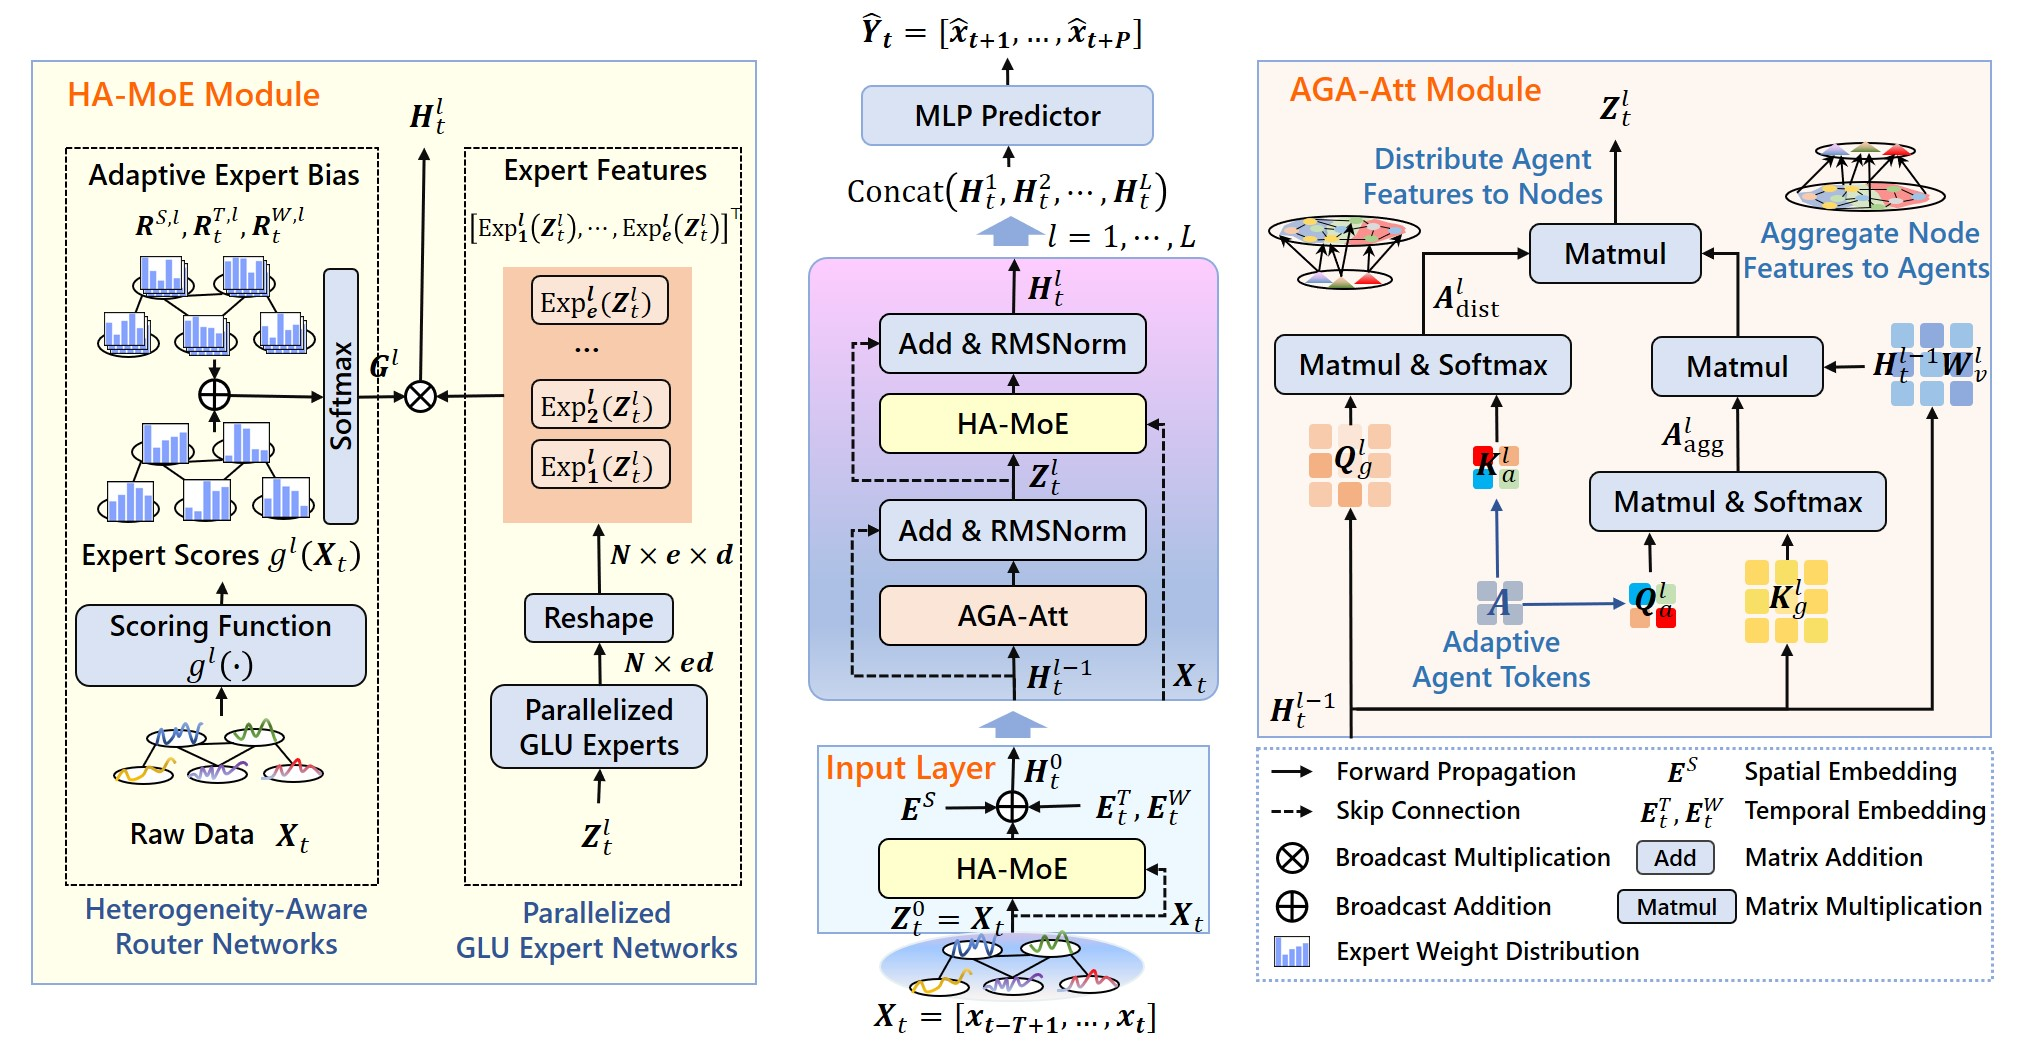
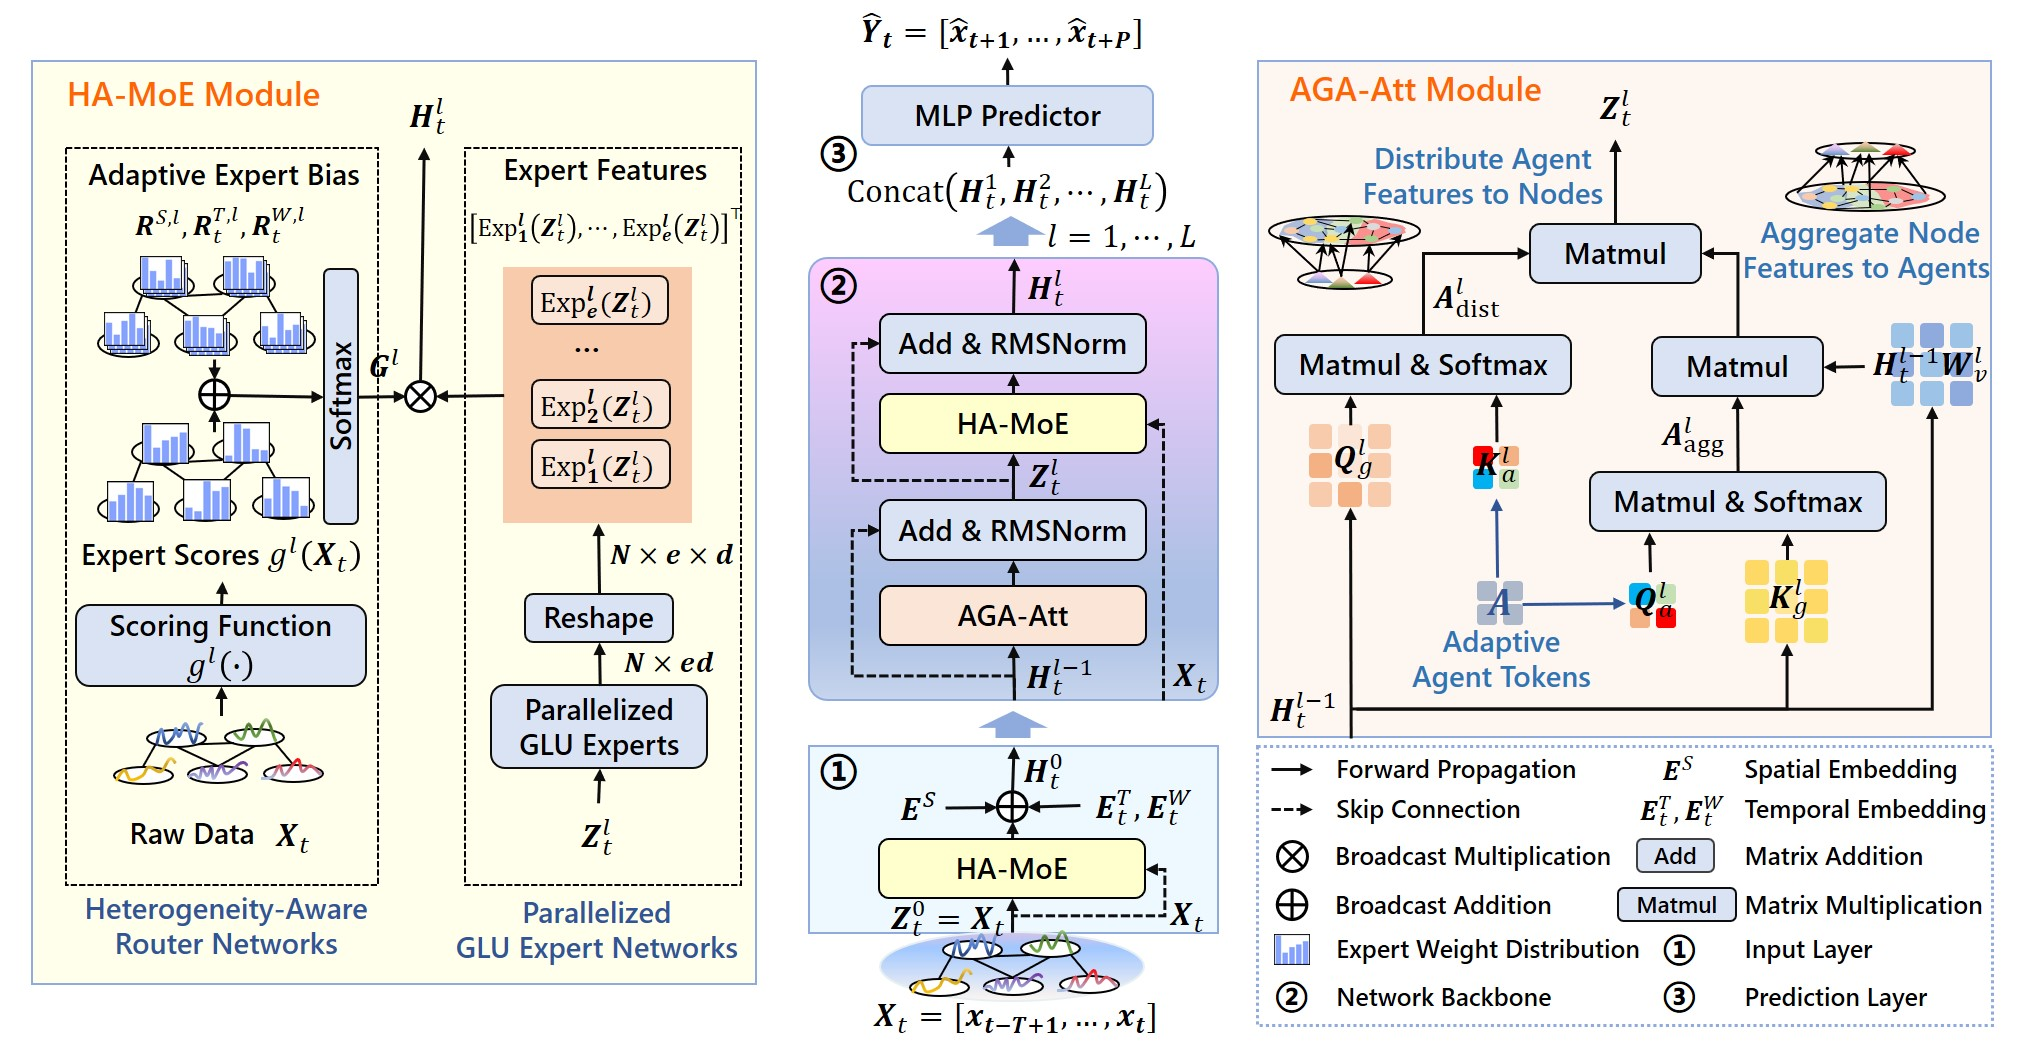
main

diff --git a/README.md b/README.md
@@ -1,10 +1,9 @@
 # FaST
 
-The architecture of FaST, as shown in Figure 1, comprises three components: 1) Temporal Compression Input with MoE to condense historical sequences into low-dimensional representations. 2) Heterogeneity-aware MoE with a router and GLU experts for the extraction of various spatial-temporal characteristics. 3) Adaptive Graph Agent Attention Module for efficient long-range spatial interactions and multilayer feature capture.
 
 ![Figure 1](./src/model.jpg)
 
-<p align="center"><b>Figure&nbsp;1</b> Architecture of FaST.</p>
+<p align="center"><b>Figure&nbsp;1</b> Architecture of FaST. ① Input Layer: The heterogeneity-aware MoE module (HA-MoE) assigns expert scores via the heterogeneity-aware router and integrates parallelized GLU expert features, converting input sequences into dense feature vectors. These features are subsequently enhanced with adaptive spatial and temporal embeddings. ② Network Backbone: Composed of stacked residual blocks. Each block employs the Adaptive Graph Agent Attention (AGA-Att) module to aggregate node features into a small number of adaptive agent tokens and redistribute them to nodes, followed by normalization and residual addition. Then, the HA-MoE module integrates expert outputs, followed by residual addition and normalization. This block leverages AGA-Att's low-rank approximation of pairwise interactions and HA-MoE enhancement to efficiently capture diverse spatiotemporal patterns. ③ Prediction Layer: Outputs from all layers are concatenated and input into a multi-layer perceptron (MLP) predictor to generate prediction results..</p>
 
 ## 1. Supplementary Experiment
 
